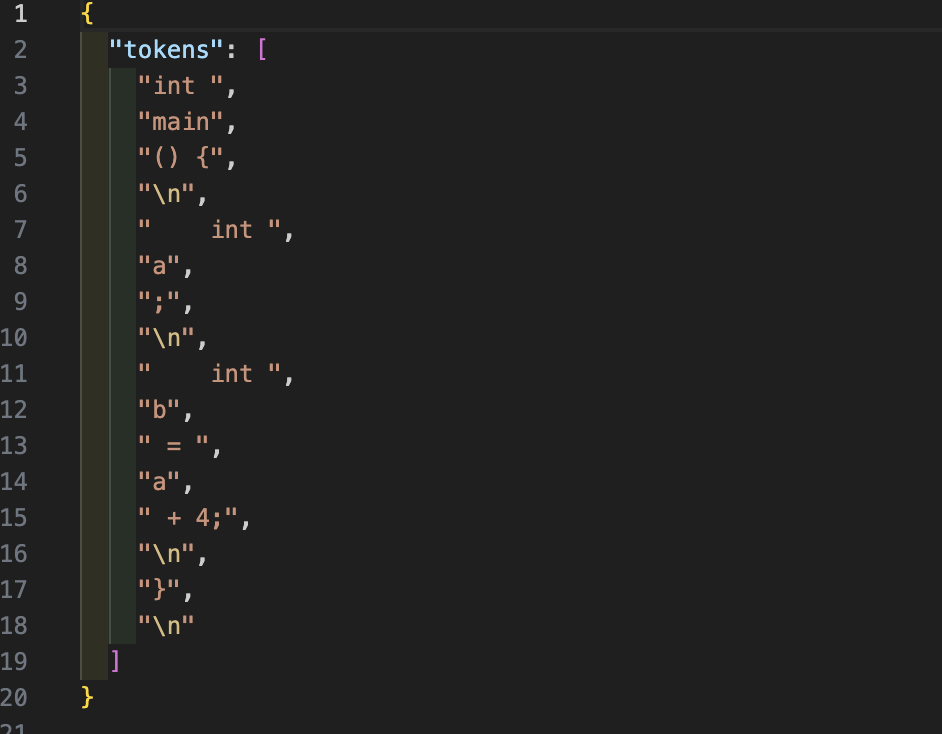
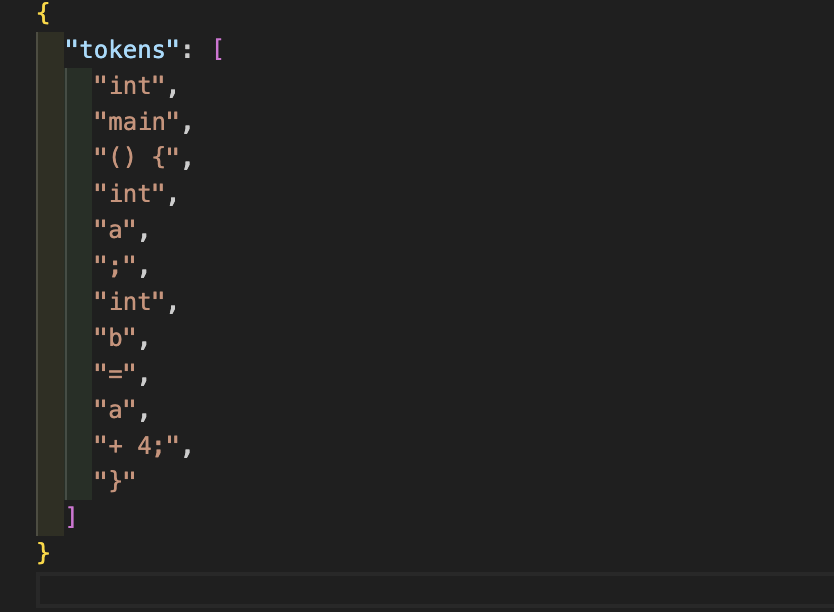
trim tokens

diff --git a/TokenizeRunner.cpp b/TokenizeRunner.cpp
@@ -11,6 +11,13 @@
 
 using namespace std::literals::string_literals;
 
+std::string trim(const std::string_view & source) {
+    std::string s(source);
+    s.erase(0,s.find_first_not_of(" \n\r\t"));
+    s.erase(s.find_last_not_of(" \n\r\t")+1);
+    return s;
+}
+
 void TokenizeRunner::Run(fs::path input_file_path, fs::path raw_output_file_path, fs::path output_file_path) {
     fs::file_status input_file_status = fs::status(input_file_path);
     if (input_file_status.type() == fs::file_type::not_found) {
@@ -38,9 +45,12 @@ void TokenizeRunner::Run(fs::path input_file_path, fs::path raw_output_file_path
                                  input_file_path.string(), raw_output_file_path.string());
         tokens_info = tokenizer->GetTokensInfo();
 
-        std::vector<TokenType> tokens;
+        std::vector<std::string> tokens;
         for (auto i : tokens_info) {
-            tokens.push_back(tokenizer->Decode(i));
+            const auto token = trim(tokenizer->Decode(i));
+            if (token.size() > 0) {
+                tokens.push_back(token);
+            }
         }
         nlohmann::json output = {
             {"tokens", tokens}
